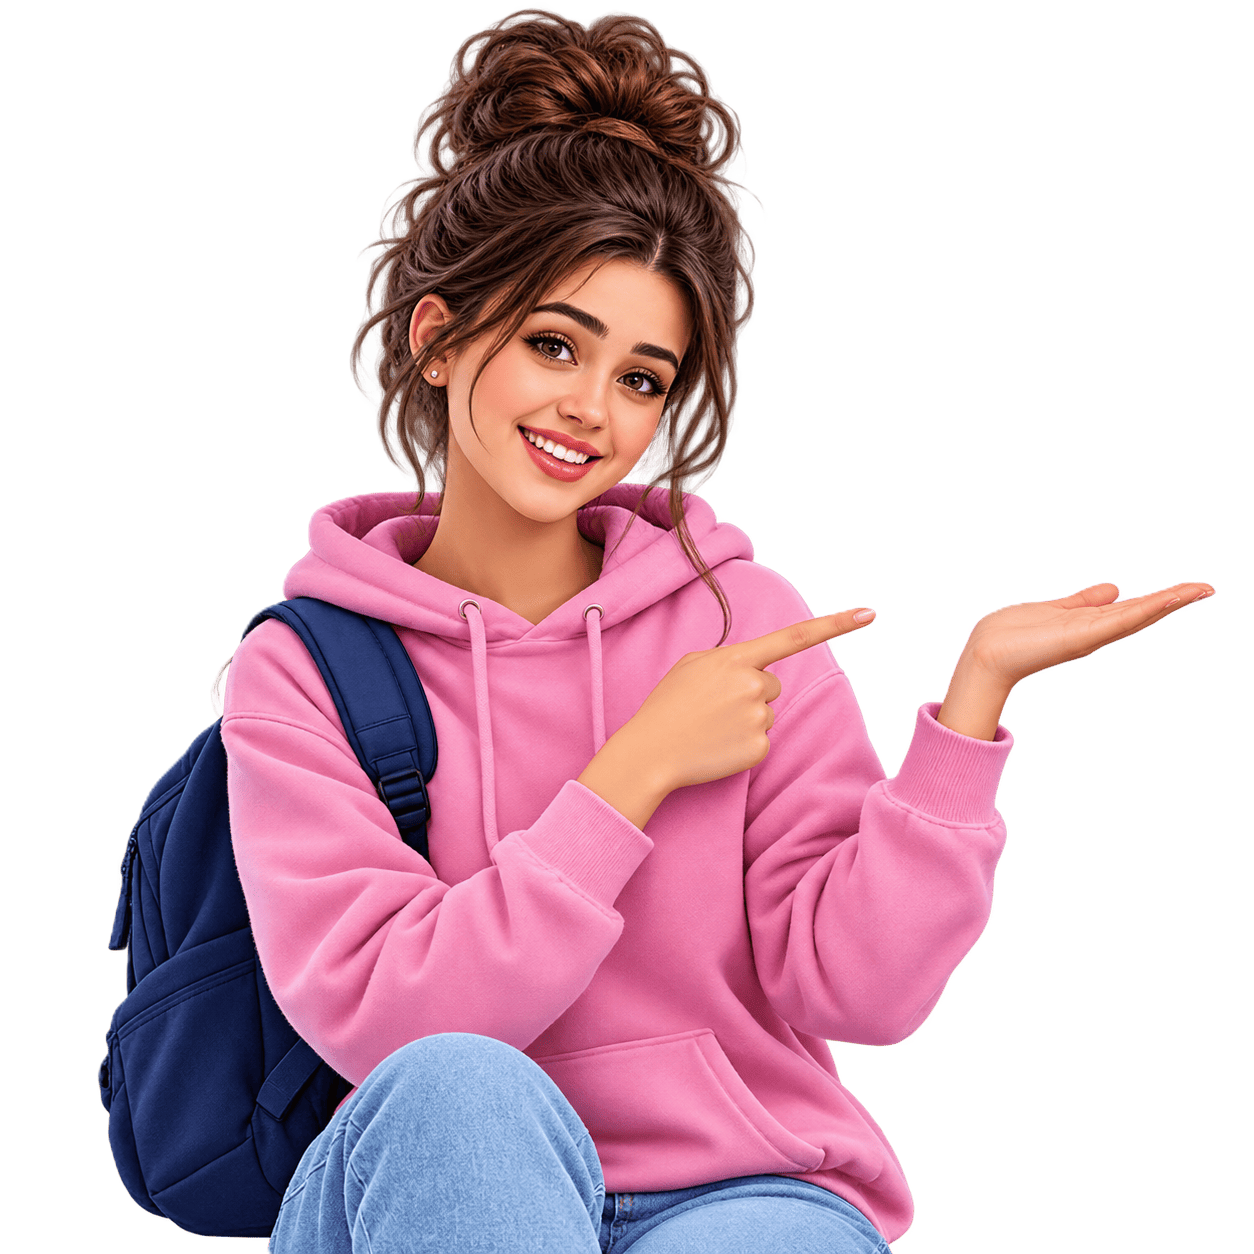
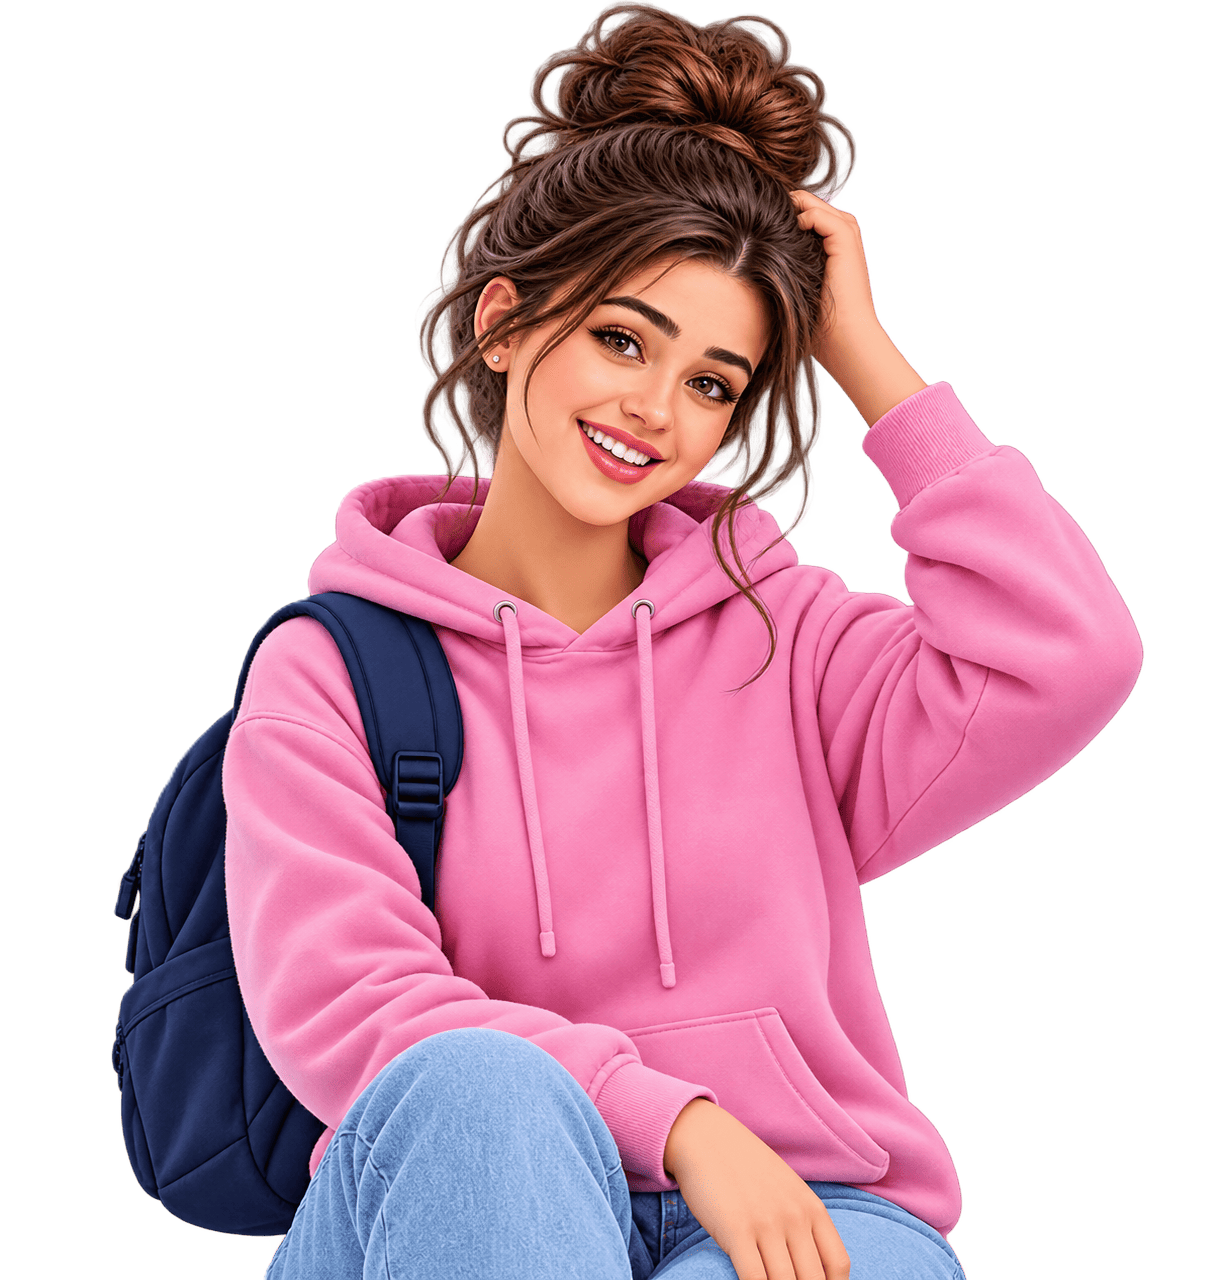
feat: enhance NotFoundScreen layout and update styles for session expired visuals

diff --git a/client/src/components/auth/NotFoundScreen.jsx b/client/src/components/auth/NotFoundScreen.jsx
@@ -8,25 +8,27 @@ export default function NotFoundScreen() {
   return (
     <div className="session-expired-screen">
       <div className="session-expired-card">
-        <div className="session-expired-avatar-wrap">
-          <img
-            src={errorAvatar}
-            alt="Error illustration"
-            className="session-expired-avatar"
-          />
-        </div>
+        <div className="session-expired-content">
+          <div className="session-expired-visual">
+            <img
+              src={errorAvatar}
+              alt="Error illustration"
+              className="session-expired-avatar"
+            />
+          </div>
 
-        <span className="session-expired-badge">Page unavailable</span>
+          <div className="session-expired-copy">
+            <h1 className="session-expired-title">This page doesn’t exist</h1>
+            <p className="session-expired-body">
+              The link may be broken, or this route is no longer available. Head back to the campus home page.
+            </p>
 
-        <h1 className="session-expired-title">This page doesn’t exist</h1>
-        <p className="session-expired-body">
-          The link may be broken, or this route is no longer available. Head back to the campus home page.
-        </p>
-
-        <div className="session-expired-actions">
-          <PrimaryButton onClick={() => navigate('/', { replace: true })}>
-            Take me home
-          </PrimaryButton>
+            <div className="session-expired-actions">
+              <PrimaryButton onClick={() => navigate('/', { replace: true })}>
+                Take me home
+              </PrimaryButton>
+            </div>
+          </div>
         </div>
       </div>
     </div>

diff --git a/client/src/features/auth/auth.css b/client/src/features/auth/auth.css
@@ -178,8 +178,9 @@
   content: "";
   position: absolute;
   border-radius: 50%;
-  background: rgba(255, 255, 255, 0.38);
-  border: 1px solid rgba(255, 255, 255, 0.45);
+  background: radial-gradient(circle, rgba(10, 140, 255, 0.24) 0%, rgba(10, 140, 255, 0.12) 38%, rgba(10, 140, 255, 0) 72%);
+  border: 1px solid rgba(10, 140, 255, 0.12);
+  box-shadow: inset 0 0 30px rgba(255, 255, 255, 0.5);
   backdrop-filter: blur(4px);
   -webkit-backdrop-filter: blur(4px);
 }
